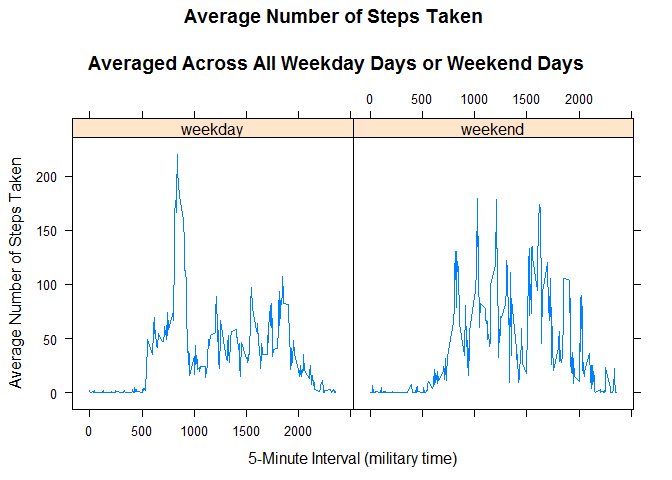
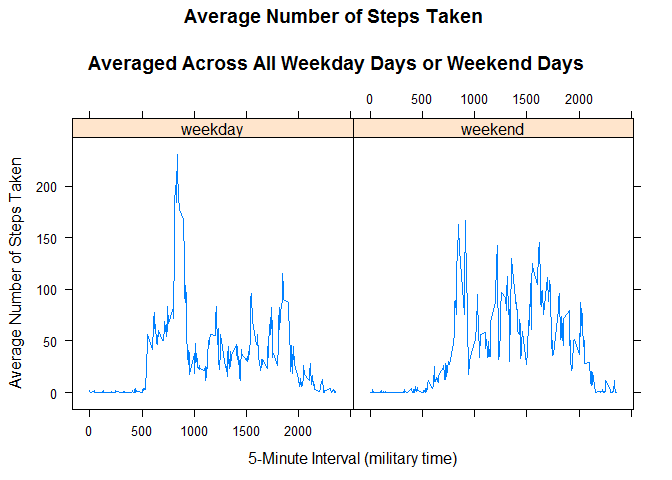
Commit 2
Commit 2

diff --git a/PA1_template.html b/PA1_template.html
@@ -131,7 +131,7 @@ rwna&lt;-NROW(num_NAs)</code></pre>
     ON d.interval = i.interval 
     ORDER BY d.date, d.interval ') 
 
-t1$steps[is.na(t1$steps)] &lt;- t1$mean[is.na(t1$steps)]</code></pre>
+t1$steps[is.na(t1$steps)] &lt;- t1$means[is.na(t1$steps)]</code></pre>
 <p>Make a histogram of the total number of steps taken each day</p>
[1 lines of base64/hex data omitted]
 <p>Calculate new mean and median for imputed data</p>
@@ -156,7 +156,7 @@ med_diff &lt;- rmedian.i - rmedian </code></pre>
 <div id="are-there-differences-in-activity-patterns-between-weekdays-and-weekends" class="section level2">
 <h2>Are there differences in activity patterns between weekdays and weekends?</h2>
 <p>Create a factor variable weektime with two levels (weekday, weekend). The folowing dataset t2 dataset contains data: average number of steps taken averaged across all weekday days and weekend days, 5-min intervals, and a facter variable weektime with two levels (weekday, weekend).</p>
-<pre class="r"><code>t1$weektime &lt;- as.factor(ifelse(weekdays(as.Date(t1$date)) %in%  c(&quot;sabado&quot;,&quot;domingo&quot;),&quot;weekend&quot;, &quot;weekday&quot;))
+<pre class="r"><code>t1$weektime &lt;- as.factor(ifelse(weekdays(as.Date(t1$date)) %in%  c(&quot;sábado&quot;,&quot;domingo&quot;),&quot;weekend&quot;, &quot;weekday&quot;))
 
 t2 &lt;- sqldf('   
     SELECT interval, avg(steps) as &quot;mean.steps&quot;, weektime
@@ -164,7 +164,7 @@ t2 &lt;- sqldf('
     GROUP BY weektime, interval
     ORDER BY interval ')</code></pre>
 <p>Make a panel plot containing a time series plot (i.e. type = “l”) of the 5-minute interval (x-axis) and the average number of steps taken, averaged across all weekday days or weekend days (y-axis).</p>
[2 lines of base64/hex data omitted]
 <p><strong>Observation:</strong> There is a higher peak earlier on weekdays, and more overall activity on weekends.</p>
 </div>
 

diff --git a/PA1_template.md b/PA1_template.md
@@ -112,7 +112,7 @@ t1 <- sqldf('
     ON d.interval = i.interval 
     ORDER BY d.date, d.interval ') 
 
-t1$steps[is.na(t1$steps)] <- t1$mean[is.na(t1$steps)]
+t1$steps[is.na(t1$steps)] <- t1$means[is.na(t1$steps)]
 ```
 
 Make a histogram of the total number of steps taken each day
@@ -159,7 +159,7 @@ Create a factor variable weektime with two levels (weekday, weekend). The folowi
 
 
 ```r
-t1$weektime <- as.factor(ifelse(weekdays(as.Date(t1$date)) %in%  c("sabado","domingo"),"weekend", "weekday"))
+t1$weektime <- as.factor(ifelse(weekdays(as.Date(t1$date)) %in%  c("sábado","domingo"),"weekend", "weekday"))
 
 t2 <- sqldf('   
     SELECT interval, avg(steps) as "mean.steps", weektime
